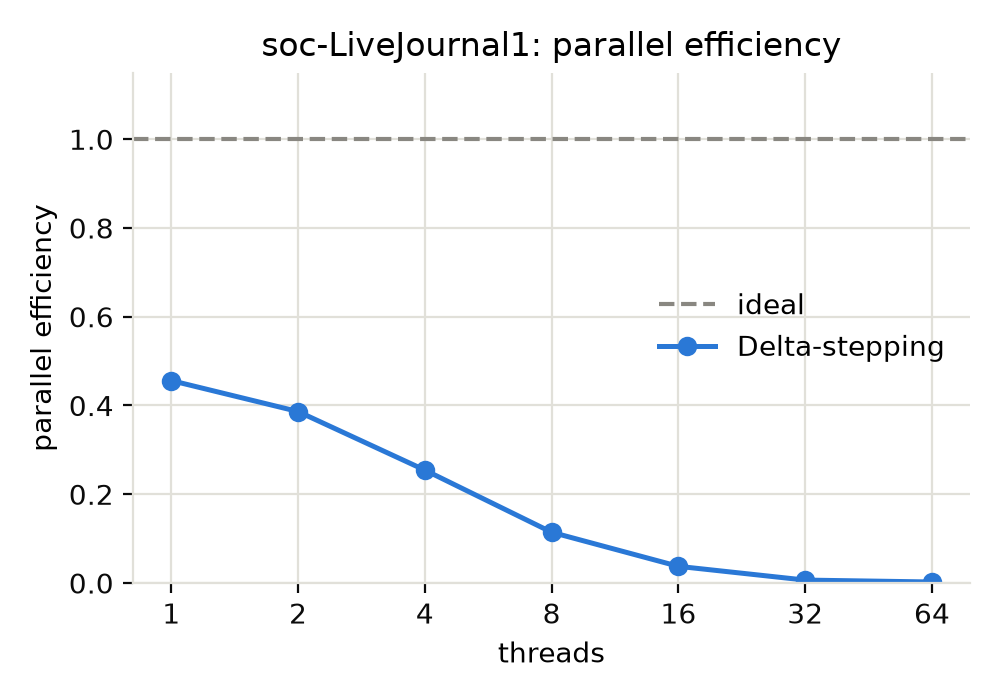
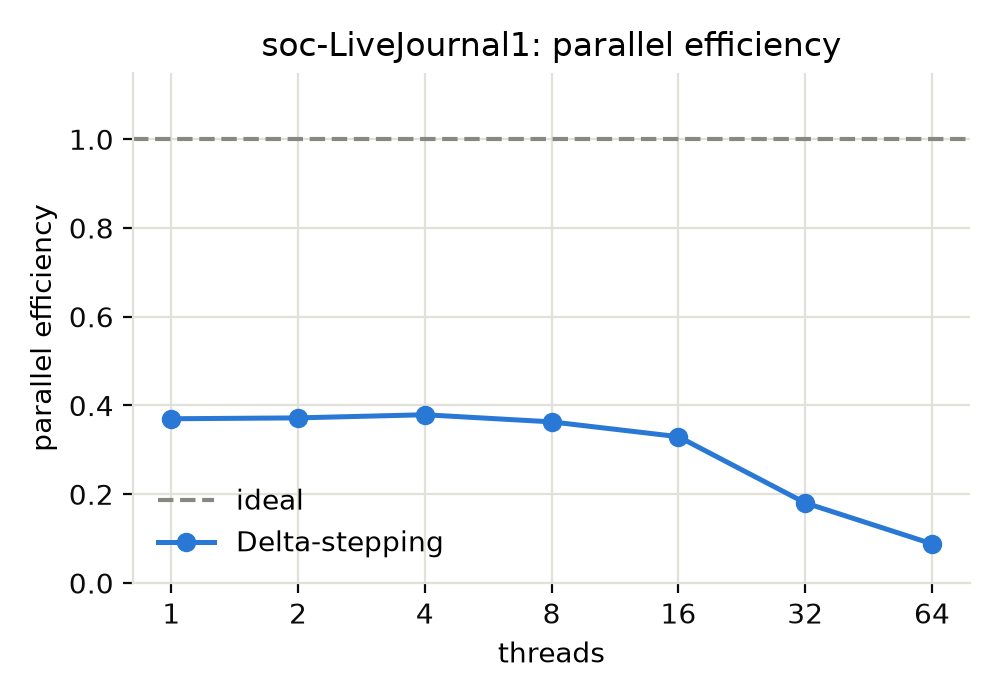
added param tuning

diff --git a/scripts/analyze_tuning.py b/scripts/analyze_tuning.py
@@ -1,0 +1,103 @@
+#!/usr/bin/env python3
+#
+# analyze_tuning.py - summarize a delta/schedule tuning sweep from
+# tune_params.sh and report the winning configuration by mean time.
+#
+# Usage:
+#   python3 scripts/analyze_tuning.py <tuning_dir> <graph_name> [delta|schedule|all]
+#
+#   'delta' and 'schedule' print only the winning value, for shell capture.
+#   'all' (default) prints the full human-readable report.
+
+import csv
+import re
+import statistics
+import sys
+from pathlib import Path
+
+DELTA_RE = re.compile(r"^(?P<graph>.+)_delta(?P<delta>[0-9.]+)\.csv$")
+SCHED_RE = re.compile(r"^(?P<graph>.+)_sched(?P<sched>.+)\.csv$")
+
+
+def read_times(path):
+    times = []
+    with open(path) as f:
+        for row in csv.DictReader(f):
+            times.append(float(row["time_ms"]))
+    return times
+
+
+def mean_time(path):
+    times = read_times(path)
+    mean = statistics.mean(times)
+    std = statistics.stdev(times) if len(times) > 1 else 0.0
+    return mean, std, len(times)
+
+
+def collect_deltas(tuning_dir, gname):
+    results = {}
+    for path in sorted(tuning_dir.glob(f"{gname}_delta*.csv")):
+        m = DELTA_RE.match(path.name)
+        if not m:
+            continue
+        results[m.group("delta")] = mean_time(path)
+    return results
+
+
+def collect_scheds(tuning_dir, gname):
+    results = {}
+    for path in sorted(tuning_dir.glob(f"{gname}_sched*.csv")):
+        m = SCHED_RE.match(path.name)
+        if not m:
+            continue
+        sched = m.group("sched").replace("_", ",")
+        results[sched] = mean_time(path)
+    return results
+
+
+def main():
+    if len(sys.argv) < 3:
+        sys.exit("usage: analyze_tuning.py <tuning_dir> <graph_name> [delta|schedule|all]")
+    tuning_dir = Path(sys.argv[1])
+    gname = sys.argv[2]
+    phase = sys.argv[3] if len(sys.argv) > 3 else "all"
+
+    deltas = collect_deltas(tuning_dir, gname)
+    scheds = collect_scheds(tuning_dir, gname)
+
+    if phase == "delta":
+        if not deltas:
+            sys.exit(f"no delta sweep results found for {gname} in {tuning_dir}")
+        print(min(deltas, key=lambda k: deltas[k][0]))
+        return
+
+    if phase == "schedule":
+        if not scheds:
+            sys.exit(f"no schedule sweep results found for {gname} in {tuning_dir}")
+        print(min(scheds, key=lambda k: scheds[k][0]))
+        return
+
+    row = "{:<12}{:>4}{:>12.4f}{:>10.4f}"
+    if deltas:
+        print(f"\n== {gname}: delta sweep ==")
+        print(f"{'delta':<12}{'n':>4}{'mean_ms':>12}{'std_ms':>10}")
+        for k in sorted(deltas, key=float):
+            mean, std, n = deltas[k]
+            print(row.format(k, n, mean, std))
+        best_delta = min(deltas, key=lambda k: deltas[k][0])
+        print(f"best delta: {best_delta} ({deltas[best_delta][0]:.4f} ms)")
+
+    if scheds:
+        print(f"\n== {gname}: schedule sweep ==")
+        print(f"{'schedule':<12}{'n':>4}{'mean_ms':>12}{'std_ms':>10}")
+        for k, (mean, std, n) in scheds.items():
+            print(row.format(k, n, mean, std))
+        best_sched = min(scheds, key=lambda k: scheds[k][0])
+        print(f"best schedule: {best_sched} ({scheds[best_sched][0]:.4f} ms)")
+
+    if not deltas and not scheds:
+        sys.exit(f"no tuning results found for {gname} in {tuning_dir}")
+
+
+if __name__ == "__main__":
+    main()

diff --git a/src/delta_stepping.c b/src/delta_stepping.c
@@ -118,7 +118,7 @@ static void delta_stepping(csr_graph_t *g, ds_workspace_t *ws, float delta, floa
                 bucket_t local_settled = {0};
                 bucket_t *local_buckets = calloc(num_slots, sizeof(bucket_t));
 
-                #pragma omp for schedule(dynamic, 64)
+                #pragma omp for schedule(runtime)
                 for(uint32_t i = 0; i < round_count; i++){
                     uint32_t u = round_nodes[i];
 
@@ -153,7 +153,7 @@ static void delta_stepping(csr_graph_t *g, ds_workspace_t *ws, float delta, floa
         {
             bucket_t *local_buckets = calloc(num_slots, sizeof(bucket_t));
 
-            #pragma omp for schedule(dynamic, 64)
+            #pragma omp for schedule(runtime)
             for(uint32_t i = 0; i < settled_count; i++){
                 uint32_t u = settled_nodes[i];
                 for(uint64_t e = g->row_ptr[u]; e < g->row_ptr[u + 1]; e++){
